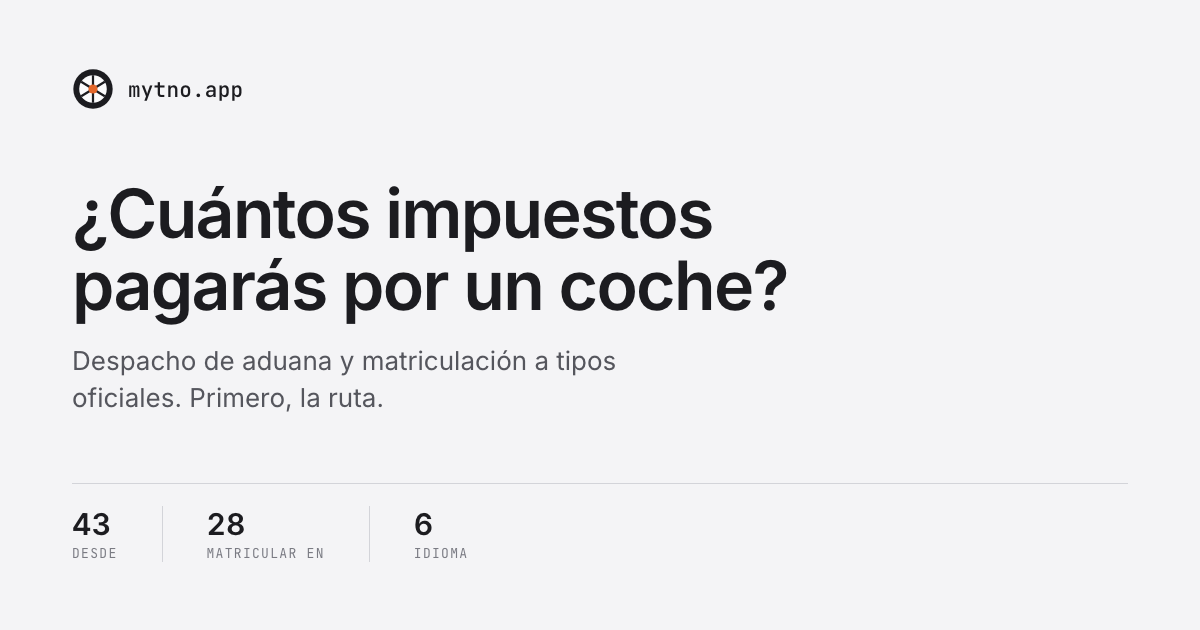
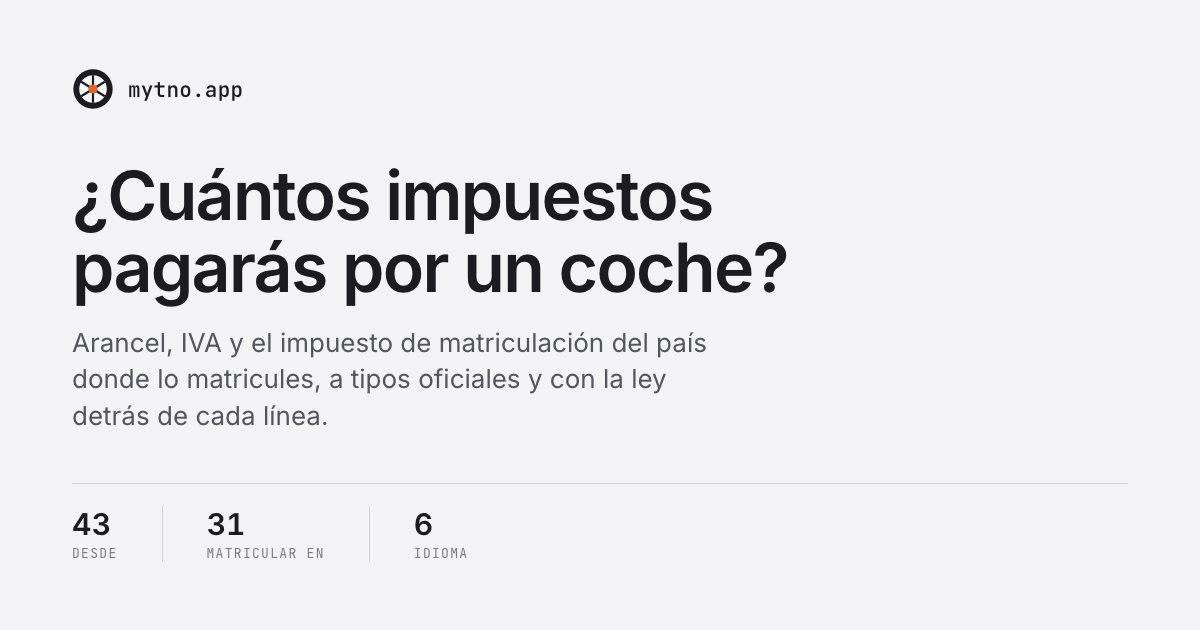
Seventeen routes, because three destinations had no door
Britain, Norway and Switzerland were added as destinations and not one of the
thirty route pages pointed at any of them. France, Belgium, Austria, Sweden,
Denmark and Ireland had never had one either. Twenty of the thirty-one
destinations are now reachable by the query people actually type — and the new
pages compute the thing that is easy to get wrong: a car going from Britain to
Ireland pays 10% customs duty now, because Britain is outside the EU.

They cost no research, being computed from config that already exists. The share
cards are regenerated with them; a route without one points at a 404.

Claude-Session: https://claude.ai/code/session_01Dg5WrpjGUPSGrhu4Rt6vaK

Changed region(s): [[0.0617, 0.2714, 0.6783, 0.6937], [0.1542, 0.8143, 0.2158, 0.8444]]

diff --git a/CLAUDE.md b/CLAUDE.md
@@ -8,7 +8,7 @@ every session and do not create notes, docs folders or summaries anywhere else.
 **mytno.app** — a free calculator for what it costs to clear customs and register a car:
 duty, excise, VAT, registration taxes and the mandatory registration costs, at official rates.
 Route: any of 43 purchase countries → Ukraine, the 27 EU countries, Switzerland, Norway or the
-United Kingdom — 31 destinations in all. 6 languages, 19 currencies, 1 513 prerendered pages.
+United Kingdom — 31 destinations in all. 6 languages, 19 currencies, 1 615 prerendered pages.
 **Live at https://mytno.app.**
 
 It grew out of a real question: Serhii lives in Spain, a friend in Ukraine has an Audi A4 (US
@@ -45,7 +45,7 @@ import, VIN `WAUANAF42HN008179`), and nobody could say what bringing it over wou
 npm install
 npm run dev          # the site on :5173, nothing else to start
 npm test             # 15 calculation tests
-npm run build        # vite build + 1 513 prerendered pages, sitemap, robots
+npm run build        # vite build + 1 615 prerendered pages, sitemap, robots
 npm run catalog      # rebuild public/catalog from the EPA dataset
 ```
 
@@ -66,7 +66,7 @@ src/
   components/              controls · vehicle · result · icons
   styles/                  tokens · base · layout · controls · result · footer · motion
   i18n/                    locales.ts + one message file per language (239 keys each)
-scripts/                   prerender (1 513 pages, sitemap, robots) · build-catalog
+scripts/                   prerender (1 615 pages, sitemap, robots) · build-catalog
 ```
 
 ## What is calculated
@@ -369,6 +369,18 @@ DGT fee, plates, mandatory lighting conversion.
   cheapest first, with this route's own place marked. A country whose registration tax cannot be
   reduced to a number is left out rather than shown cheap — otherwise the table would recommend
   exactly the countries we know least about.
+- **Three destinations had no door, and it took counting to see it.** Britain, Norway and
+  Switzerland were added as destinations and not one of the thirty route pages pointed at any of
+  them; France, Belgium, Austria, Sweden, Denmark and Ireland had never had one either. Seventeen
+  routes were added — twenty of the thirty-one destinations are now reachable by the query people
+  actually type. They cost no research: a route page is computed from config that already exists.
+  `npm run og` must be re-run when routes change, or the new pages point at share cards that are
+  not there. **Page count is no longer the lever.** 1 615 pages with zero thin ones on a domain
+  days old will not be indexed in full for weeks; what is missing is coverage and links, not URLs.
+  The measured gap in coverage is `config/models.json`: fourteen makes, all German premium,
+  Japanese, Korean and Tesla — no Renault, Peugeot, Citroën, Seat, Dacia, Fiat, Opel or Volvo,
+  on a site that speaks Spanish, French and Polish. That is the next thing worth adding, and each
+  model needs a certified WLTP CO₂ and a real list price before it earns a page.
 - **A page per car model, and a page per year that model was built — 188 in each language.**
   Somebody searching for their own car searches for “Audi A4 2016”, not for a country, and the
   year is not decoration: the Dutch write-down, the French barème and the Hungarian threshold all
